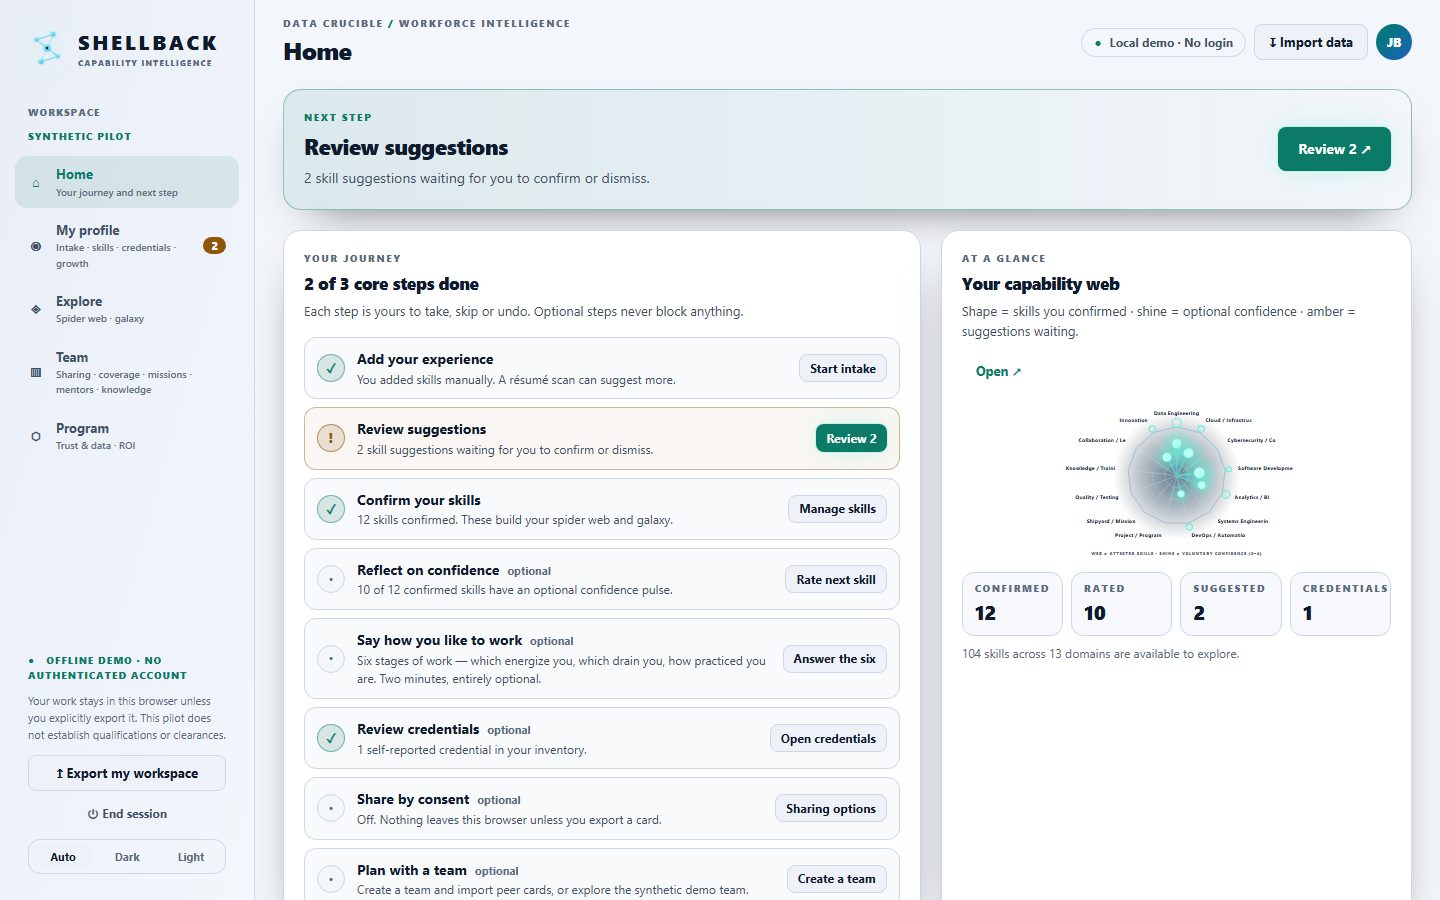
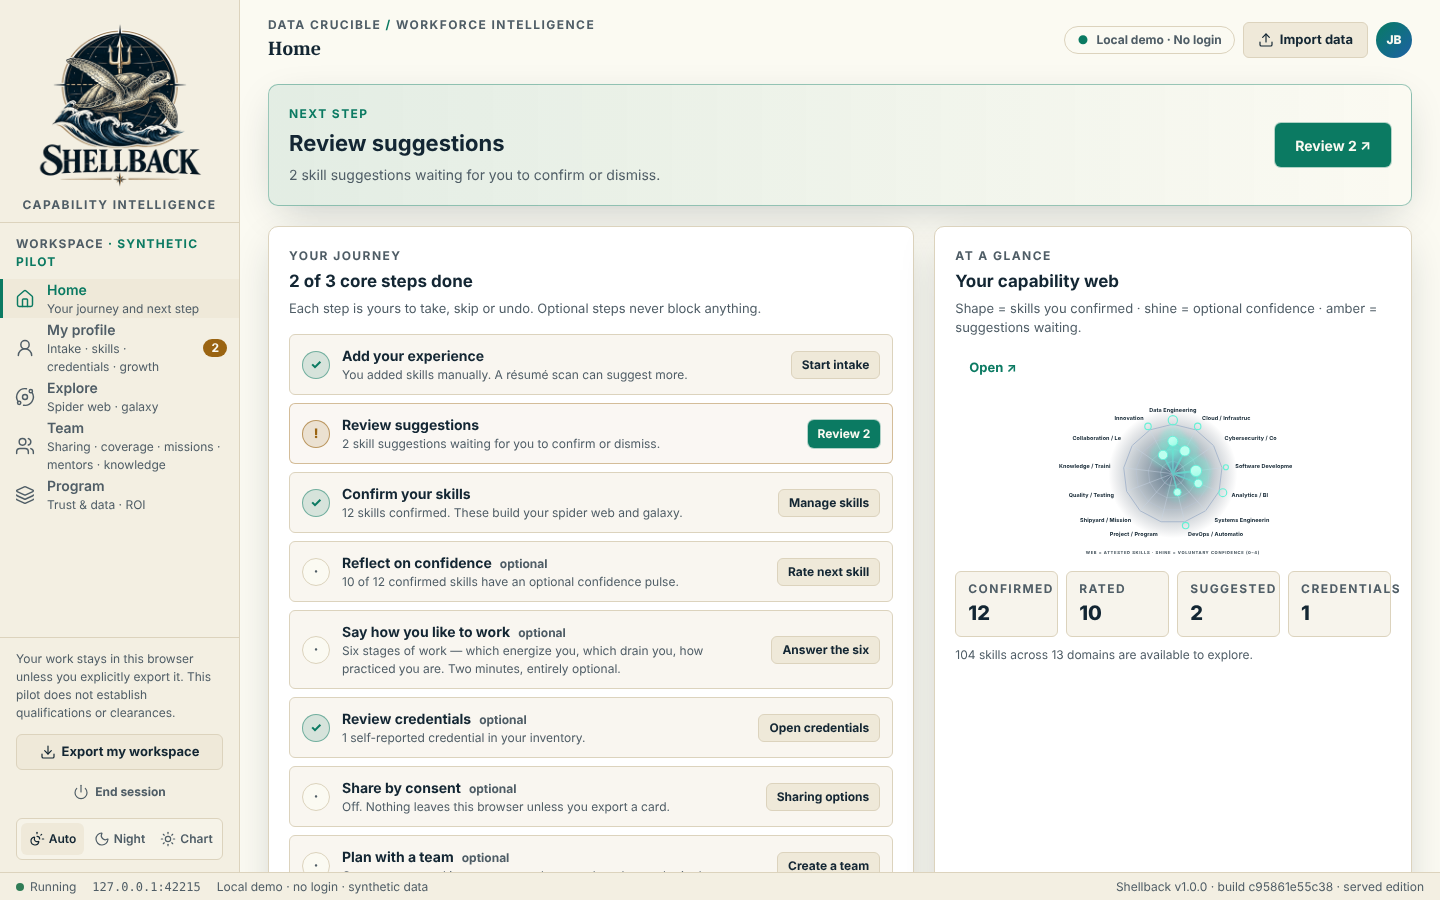
docs: retake README Home screenshots from the current Fleet UI
The README pair (docs/screenshots/home-night-watch.png, home-chart-room.png)
predated the Fleet Unified UI: constellation logo, no Fleet emblem, no status
bar. Regenerated both with tools/screenshots.mjs from the committed dist/
(build c95861e55c38, verified in sync with src by npm run build:check),
1440x900, fictional employee Jordan Brooks only.

The seven walkthrough images in docs/assets/walkthrough/ were compared with
fresh captures of the same views and still match the current product, so they
are unchanged.

README: the emblem is now wired into the app (sidebar and Home), and the
theme switch is labelled Night watch / Chart room.

Claude-Session: https://claude.ai/code/session_011ed4z4RFijKn2Db3KcKVzo

Changed region(s): [[0.0, 0.0311, 1.0, 1.0], [0.75, 0.0, 0.9688, 0.0933], [0.1875, 0.0, 0.4062, 0.0622]]

diff --git a/README.md b/README.md
@@ -78,7 +78,7 @@ The confidence pulse is a side drawer that opens from any skill, anywhere.
 - **Intelligence (configurable):** Local rules by default (nothing leaves the workstation). An authorized remote provider can be configured under Program → Intelligence (endpoint, encrypted bearer token, connection test). The page lists exactly what each task sends; the shipped CSP blocks every host unless the build allows it (`SHELLBACK_INTEL_HOST`). Contract and a loopback adapter for OpenAI-compatible gateways in `docs/INTELLIGENCE_PROVIDERS.md`. Sample fictional résumés for trying intake: `examples/resumes/` (PDF).
   - **Intelligence router:** remote providers will move behind the Fleet intelligence router, [Fairlead](https://github.com/fleethacker-data-crucible/Fairlead), so Shellback defaults to the router instead of a hand-entered endpoint; local rules stay the default and nothing changes until then. See [TechStack](TechStack), "Intelligence router".
 - **Supervisor brief:** Team → Coverage writes a plain-language summary from aggregate numbers only (shown before generation). Never names, ranks or scores a person.
-- **Themes & print:** Auto / dark / light; printable capability summary (Profile → Skills) and team workshop sheet.
+- **Themes & print:** Auto / Night watch (dark) / Chart room (light); printable capability summary (Profile → Skills) and team workshop sheet.
 - **Organization codes:** enter your code (e.g. `9911.1`) and Shellback derives the department → division → branch → section tree by prefix and rolls coverage up through it. Nothing is shared without its own opt-in.
 - **Encrypted exports (optional):** workspace backups and peer cards can be passphrase-protected with AES-256-GCM (PBKDF2-SHA-256, 310k iterations).
 - **No silent data loss:** stored data that fails validation is moved to a recovery area you can download from (Trust & governance → Recovery). Imports skip malformed records, list them as warnings, and keep everything else.
@@ -140,7 +140,7 @@ tools/          build.mjs, run-tests.mjs, serve.mjs, screenshots.mjs, Start-Shel
 tests/unit/     node:test suites for core logic and actions
 tests/e2e/      Playwright smoke tests against the compiled served and standalone editions
 examples/       fictional employee workspaces and peer cards (also bundled as in-app personas)
-assets/brand/   emblem (dark and light); not yet wired into the app UI
+assets/brand/   emblem (dark and light); a copy in src/app/assets/ is shown in the sidebar and on Home
 dist/           compiled, committed output shipped to workstations
 docs/screenshots/ README screenshots (tools/screenshots.mjs)
 ```
